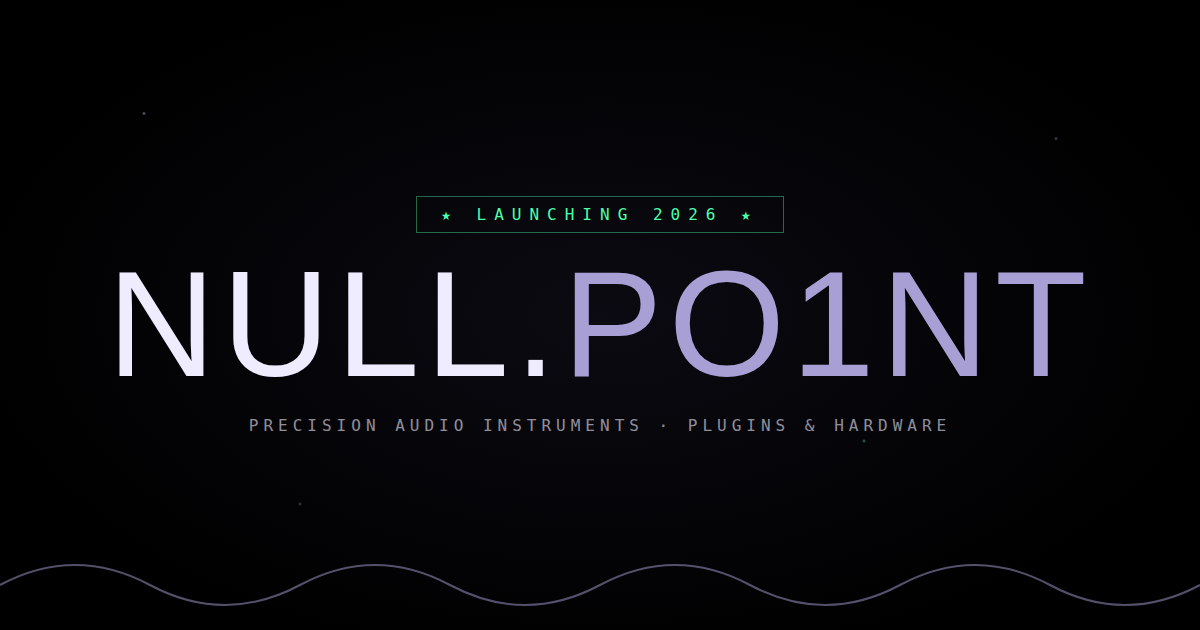
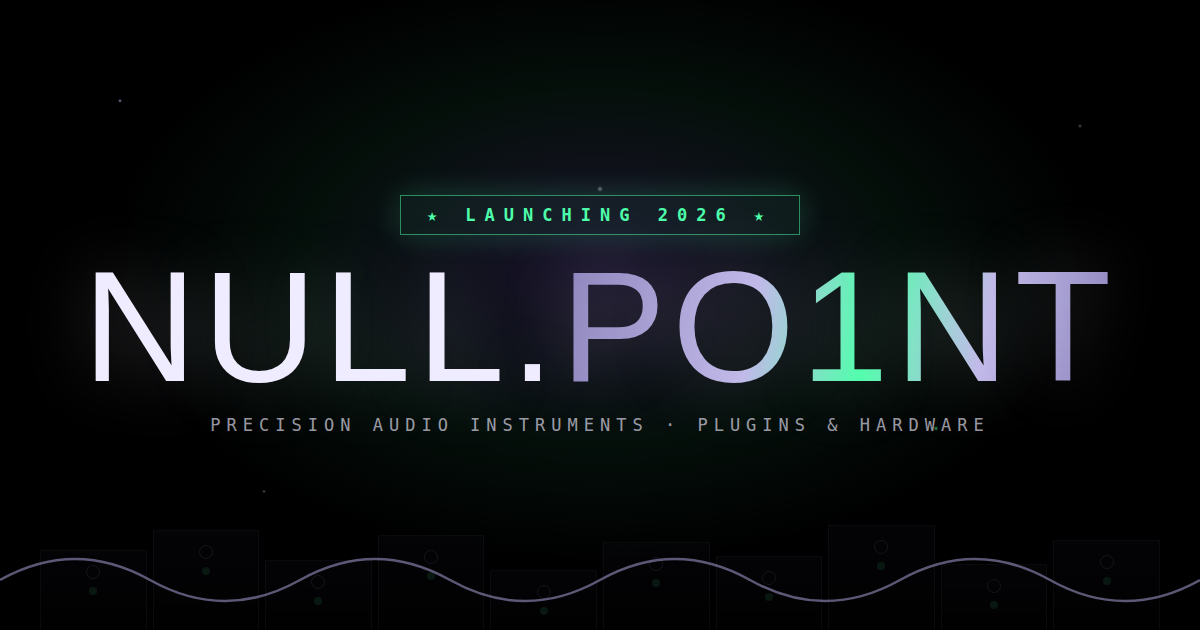
polish: bolder, more eye-catching pass
All 5 optional tweaks + general boldness:

1. Animated drifting starfield — two parallax layers (drift-a/drift-b) moving
   in opposite diagonals, plus a breathing radial glow behind the logo.
2. Brighter AUDIO line — bumped 0.30 -> 0.42 opacity, tighter tracking.
3. Wired all footer social links to real URL patterns (instagram/x/youtube/
   discord), open in new tab w/ rel=noopener. No more href='#'.
4. Added 'what is a null point?' tooltip under the hero form — hover/focus
   reveals an audio-engineering explanation with neon payoff line.
5. Rebuilt og-image.png — bolder gradient wordmark, glowing badge, and a
   faint eurorack module row nodding at the coming hardware.

General boldness:
- PO1NT wordmark now uses an animated purple->neon gradient sweep (hueshift)
- Glowing, heavier badge with twinkling stars
- CTA + nav buttons: lift on hover, colored glow shadows, heavier weight
- Drop cards: lift + shadow + animated gradient top-accent on hover
- Giant band text: thicker stroke + neon glow on accent word
- All respects prefers-reduced-motion

diff --git a/css/pages.css b/css/pages.css
@@ -4,41 +4,76 @@
   display: flex; flex-direction: column; align-items: center; justify-content: center;
   text-align: center; position: relative; overflow: hidden; background: var(--black);
 }
+/* Layer 1: dense, fine stars drifting up-left */
 .cs-hero::before {
-  content: ''; position: absolute; inset: 0; z-index: 0;
+  content: ''; position: absolute; inset: -60px; z-index: 0; pointer-events: none;
   background-image:
-    radial-gradient(1px 1px at 12% 18%, rgba(168,159,212,0.6) 0%, transparent 100%),
-    radial-gradient(1px 1px at 88% 12%, rgba(168,159,212,0.4) 0%, transparent 100%),
-    radial-gradient(1px 1px at 35% 55%, rgba(168,159,212,0.35) 0%, transparent 100%),
-    radial-gradient(1px 1px at 72% 70%, rgba(77,255,170,0.35) 0%, transparent 100%),
-    radial-gradient(1px 1px at 20% 82%, rgba(168,159,212,0.3) 0%, transparent 100%),
-    radial-gradient(1px 1px at 93% 48%, rgba(77,255,170,0.25) 0%, transparent 100%),
-    radial-gradient(1.5px 1.5px at 50% 25%, rgba(228,224,244,0.2) 0%, transparent 100%),
-    radial-gradient(1px 1px at 6% 66%, rgba(77,255,170,0.2) 0%, transparent 100%),
-    radial-gradient(900px 600px at 50% 50%, rgba(78,74,128,0.08) 0%, transparent 70%);
+    radial-gradient(1.5px 1.5px at 12% 18%, rgba(168,159,212,0.8) 0%, transparent 100%),
+    radial-gradient(1px 1px at 88% 12%, rgba(168,159,212,0.5) 0%, transparent 100%),
+    radial-gradient(1px 1px at 35% 55%, rgba(168,159,212,0.45) 0%, transparent 100%),
+    radial-gradient(2px 2px at 72% 70%, rgba(77,255,170,0.55) 0%, transparent 100%),
+    radial-gradient(1px 1px at 20% 82%, rgba(168,159,212,0.4) 0%, transparent 100%),
+    radial-gradient(1.5px 1.5px at 93% 48%, rgba(77,255,170,0.4) 0%, transparent 100%),
+    radial-gradient(2px 2px at 50% 25%, rgba(228,224,244,0.5) 0%, transparent 100%),
+    radial-gradient(1px 1px at 6% 66%, rgba(77,255,170,0.35) 0%, transparent 100%);
+  animation: drift-a 26s ease-in-out infinite alternate;
+}
+/* Layer 2: sparser, larger stars drifting down-right (parallax) + center glow */
+.cs-hero::after {
+  content: ''; position: absolute; inset: -60px; z-index: 0; pointer-events: none;
+  background-image:
+    radial-gradient(2px 2px at 78% 28%, rgba(168,159,212,0.55) 0%, transparent 100%),
+    radial-gradient(2.5px 2.5px at 28% 38%, rgba(77,255,170,0.4) 0%, transparent 100%),
+    radial-gradient(2px 2px at 60% 85%, rgba(168,159,212,0.4) 0%, transparent 100%),
+    radial-gradient(1.5px 1.5px at 15% 30%, rgba(228,224,244,0.4) 0%, transparent 100%),
+    radial-gradient(2px 2px at 90% 78%, rgba(77,255,170,0.3) 0%, transparent 100%);
+  animation: drift-b 34s ease-in-out infinite alternate;
+}
+/* Breathing radial glow behind the logo */
+.cs-glow {
+  position: absolute; top: 46%; left: 50%; z-index: 0; pointer-events: none;
+  width: 900px; height: 620px; max-width: 120vw;
+  background: radial-gradient(ellipse, rgba(120,90,200,0.18) 0%, rgba(77,255,170,0.05) 40%, transparent 70%);
+  animation: glowpulse 7s ease-in-out infinite;
 }
 .cs-badge {
-  font-size: 9px; letter-spacing: 5px; text-transform: uppercase;
-  color: var(--neon); position: relative; z-index: 1; margin-bottom: 28px;
-  border: 1px solid rgba(77,255,170,0.3); padding: 6px 20px;
-  display: inline-flex; align-items: center; gap: 12px;
+  font-size: 10px; letter-spacing: 5px; text-transform: uppercase;
+  color: var(--neon); position: relative; z-index: 1; margin-bottom: 30px;
+  border: 1px solid rgba(77,255,170,0.45); padding: 8px 22px;
+  display: inline-flex; align-items: center; gap: 12px; font-weight: 700;
+  background: rgba(77,255,170,0.05);
+  box-shadow: 0 0 24px rgba(77,255,170,0.18), inset 0 0 16px rgba(77,255,170,0.05);
   animation: fadein .5s ease both;
 }
-.cs-badge::before, .cs-badge::after { content: '★'; font-size: 7px; }
+.cs-badge::before, .cs-badge::after { content: '★'; font-size: 8px; animation: twinkle 2.4s ease-in-out infinite; }
+.cs-badge::after { animation-delay: 1.2s; }
 .cs-logo {
   font-family: 'Bebas Neue', sans-serif;
-  font-size: clamp(80px, 18vw, 200px); line-height: 0.82; letter-spacing: 4px;
+  font-size: clamp(86px, 19vw, 220px); line-height: 0.8; letter-spacing: 4px;
   position: relative; z-index: 1; animation: fadein2 .6s .1s ease both;
 }
-.cs-logo .line1 { color: var(--white); display: block; }
-.cs-logo .line2 { color: var(--purple); display: block; }
-.cs-logo .line3 { color: rgba(240,236,255,0.3); display: block; font-size: 0.5em; letter-spacing: 12px; }
-.cs-tagline {
-  font-size: 11px; letter-spacing: 4px; text-transform: uppercase;
-  color: var(--dim); margin-top: 36px; position: relative; z-index: 1;
-  animation: fadein3 .7s .2s ease both; max-width: 540px; line-height: 1.8;
+.cs-logo .line1 {
+  color: var(--white); display: block;
+  text-shadow: 0 0 60px rgba(240,236,255,0.25);
 }
-.cs-tagline em { color: var(--purple); font-style: normal; }
+/* Animated purple→neon gradient sweep across PO1NT */
+.cs-logo .line2 {
+  display: block;
+  background: linear-gradient(100deg, var(--pu-mid) 0%, var(--pu-hot) 25%, var(--neon) 50%, var(--pu-hot) 75%, var(--pu-mid) 100%);
+  background-size: 200% auto;
+  -webkit-background-clip: text; background-clip: text;
+  -webkit-text-fill-color: transparent; color: transparent;
+  animation: hueshift 6s linear infinite;
+}
+.cs-logo .line3 {
+  color: rgba(240,236,255,0.42); display: block; font-size: 0.5em; letter-spacing: 14px;
+}
+.cs-tagline {
+  font-size: 12px; letter-spacing: 4px; text-transform: uppercase;
+  color: var(--dim); margin-top: 38px; position: relative; z-index: 1;
+  animation: fadein3 .7s .2s ease both; max-width: 560px; line-height: 1.9;
+}
+.cs-tagline em { color: var(--purple); font-style: normal; font-weight: 700; }
 
 /* ── EMAIL CAPTURE FORM ─────────────────────────────────────────────── */
 .cs-form {
@@ -78,12 +113,18 @@
   background: var(--coal); padding: 40px 36px;
   display: flex; flex-direction: column; gap: 12px;
   position: relative; overflow: hidden;
-  transition: background .2s;
+  transition: background .22s, transform .22s, box-shadow .22s;
 }
-.drop-card:hover { background: var(--surface); }
+.drop-card:hover {
+  background: var(--surface);
+  transform: translateY(-4px);
+  box-shadow: 0 18px 50px rgba(0,0,0,0.5), 0 0 30px rgba(120,90,200,0.12);
+}
 .drop-card::before {
-  content: ''; position: absolute; top: 0; left: 0; right: 0; height: 2px;
-  background: linear-gradient(90deg, var(--pu-low), var(--purple), var(--neon));
+  content: ''; position: absolute; top: 0; left: 0; right: 0; height: 3px;
+  background: linear-gradient(90deg, var(--pu-low), var(--purple), var(--neon), var(--purple), var(--pu-low));
+  background-size: 200% auto;
+  animation: hueshift 5s linear infinite;
 }
 .drop-status {
   font-size: 8px; letter-spacing: 3px; text-transform: uppercase;
@@ -253,3 +294,37 @@ footer { background: var(--black); border-top: 1px solid rgba(168,159,212,0.28);
 }
 .toast.show { transform: translateY(0); }
 .toast strong { color: var(--neon); display: block; font-family: 'Bebas Neue', sans-serif; font-size: 18px; letter-spacing: 2px; margin-bottom: 6px; }
+
+/* ── "WHAT IS NULL POINT?" TOOLTIP ──────────────────────────────────── */
+.np-explain {
+  font-size: 8px; letter-spacing: 2px; text-transform: uppercase;
+  color: var(--faint); margin-top: 20px; position: relative; z-index: 2;
+  animation: fadein3 1.1s .6s ease both;
+  display: inline-flex; align-items: center; gap: 6px;
+}
+.np-term {
+  color: var(--purple); border-bottom: 1px dotted rgba(168,159,212,0.5);
+  cursor: help; position: relative; font-weight: 700;
+}
+.np-term .np-tip {
+  position: absolute; bottom: calc(100% + 12px); left: 50%; transform: translateX(-50%) translateY(6px);
+  width: 280px; max-width: 80vw;
+  background: var(--coal); border: 1px solid rgba(168,159,212,0.4);
+  padding: 14px 16px; text-align: left;
+  font-size: 10px; letter-spacing: 0.5px; line-height: 1.7; text-transform: none;
+  color: var(--dim); font-weight: 300;
+  opacity: 0; visibility: hidden; transition: opacity .2s, transform .2s;
+  box-shadow: 0 16px 40px rgba(0,0,0,0.6); z-index: 50;
+}
+.np-term .np-tip::after {
+  content: ''; position: absolute; top: 100%; left: 50%; transform: translateX(-50%);
+  border: 6px solid transparent; border-top-color: rgba(168,159,212,0.4);
+}
+.np-term .np-tip strong { color: var(--neon); font-weight: 700; }
+.np-term:hover .np-tip, .np-term:focus .np-tip {
+  opacity: 1; visibility: visible; transform: translateX(-50%) translateY(0);
+}
+
+/* ── BOLDER GIANT BAND ──────────────────────────────────────────────── */
+.giant-text { -webkit-text-stroke: 2.5px var(--purple); }
+.giant-text em { text-shadow: 0 0 40px rgba(77,255,170,0.4); }

diff --git a/css/components.css b/css/components.css
@@ -26,10 +26,10 @@ nav {
 .nav-buy {
   font-size: 10px; letter-spacing: 2px; text-transform: uppercase;
   border: 1px solid var(--purple); color: var(--purple);
-  padding: 6px 16px; background: none;
-  font-family: 'IBM Plex Mono', monospace; transition: all .15s;
+  padding: 7px 18px; background: rgba(168,159,212,0.04);
+  font-family: 'IBM Plex Mono', monospace; font-weight: 700; transition: all .18s;
 }
-.nav-buy:hover { background: var(--purple); color: var(--black); }
+.nav-buy:hover { background: var(--purple); color: var(--black); box-shadow: 0 0 18px rgba(168,159,212,0.45); }
 
 /* ── TICKERS ────────────────────────────────────────────────────────── */
 .top-ticker {
@@ -66,17 +66,30 @@ nav {
   font-family: 'IBM Plex Mono', monospace;
   font-size: 11px; letter-spacing: 2px; text-transform: uppercase;
   background: var(--purple); color: var(--black);
-  border: none; padding: 14px 38px; font-weight: 700; transition: background .15s;
+  border: none; padding: 15px 40px; font-weight: 700;
+  transition: background .18s, box-shadow .18s, transform .18s;
+  box-shadow: 0 0 0 rgba(168,159,212,0);
 }
-.cta-primary:hover { background: var(--pu-hot); }
+.cta-primary:hover {
+  background: var(--pu-hot);
+  box-shadow: 0 8px 30px rgba(168,159,212,0.4);
+  transform: translateY(-2px);
+}
+.cta-primary:active { transform: translateY(0); }
 .cta-outline {
   font-family: 'IBM Plex Mono', monospace;
   font-size: 11px; letter-spacing: 2px; text-transform: uppercase;
-  background: none; color: var(--neon);
-  border: 1px solid rgba(77,255,170,0.3);
-  padding: 14px 38px; transition: all .15s;
+  background: rgba(77,255,170,0.03); color: var(--neon);
+  border: 1px solid rgba(77,255,170,0.4);
+  padding: 15px 40px; font-weight: 700;
+  transition: all .18s;
 }
-.cta-outline:hover { background: rgba(77,255,170,0.07); border-color: var(--neon); }
+.cta-outline:hover {
+  background: rgba(77,255,170,0.1); border-color: var(--neon);
+  box-shadow: 0 8px 30px rgba(77,255,170,0.22);
+  transform: translateY(-2px);
+}
+.cta-outline:active { transform: translateY(0); }
 
 /* ── PLUGIN MOCKUP ──────────────────────────────────────────────────── */
 .hero-plugin {

diff --git a/css/base.css b/css/base.css
@@ -19,3 +19,17 @@ body {
 @keyframes fadein3 { from { opacity:0; transform:translateY(24px); } to { opacity:1; transform:none; } }
 @keyframes tickerscroll { from { transform: translateX(0); } to { transform: translateX(-50%); } }
 @keyframes linepulse { 0%,100%{ opacity:.3; } 50%{ opacity:1; } }
+
+/* Slow drifting starfield — two layers move in opposite diagonals for parallax */
+@keyframes drift-a { from { transform: translate3d(0,0,0); } to { transform: translate3d(-40px,-30px,0); } }
+@keyframes drift-b { from { transform: translate3d(0,0,0); } to { transform: translate3d(35px,25px,0); } }
+/* Soft breathing glow behind the logo */
+@keyframes glowpulse { 0%,100%{ opacity:.5; transform:translate(-50%,-50%) scale(1); } 50%{ opacity:.9; transform:translate(-50%,-50%) scale(1.12); } }
+/* Animated gradient sweep for the accent on the wordmark + badge */
+@keyframes hueshift { 0%{ background-position:0% 50%; } 100%{ background-position:200% 50%; } }
+/* Twinkle for accent stars */
+@keyframes twinkle { 0%,100%{ opacity:.25; transform:scale(.85); } 50%{ opacity:1; transform:scale(1.15); } }
+
+@media (prefers-reduced-motion: reduce) {
+  *, *::before, *::after { animation-duration: .001ms !important; animation-iteration-count: 1 !important; }
+}

diff --git a/index.html b/index.html
@@ -71,6 +71,7 @@
 
 <!-- ── HERO ──────────────────────────────────────────────────────────── -->
 <section class="cs-hero">
+  <div class="cs-glow"></div>
   <div class="cs-badge">Launching 2026</div>
   <div class="cs-logo">
     <span class="line1">NULL.</span>
@@ -84,6 +85,11 @@
     <button type="submit" class="cta-primary">Notify Me ★</button>
   </form>
   <p class="cs-form-note">★ One email at launch. No spam, no newsletters. <em>Promise.</em></p>
+  <p class="np-explain">
+    <span class="np-term" tabindex="0">what is a null point?
+      <span class="np-tip">In audio, the <strong>null point</strong> is where two signals cancel perfectly to silence — zero. It's the precise, deliberate center we build everything around. <strong>Nothing wasted, nothing colored.</strong></span>
+    </span>
+  </p>
 </section>
 
 <!-- ── GIANT BAND ────────────────────────────────────────────────────── -->
@@ -154,7 +160,7 @@
       <div class="footer-tagline">Handbuilt in Sofia · Launching 2026</div>
     </div>
     <div class="footer-socials">
-      <a href="#">Instagram</a><a href="#">X / Twitter</a><a href="#">YouTube</a><a href="#">Discord</a>
+      <a href="https://instagram.com/nullpoint.audio" target="_blank" rel="noopener">Instagram</a><a href="https://x.com/nullpointaudio" target="_blank" rel="noopener">X / Twitter</a><a href="https://youtube.com/@nullpointaudio" target="_blank" rel="noopener">YouTube</a><a href="https://discord.gg/nullpoint" target="_blank" rel="noopener">Discord</a>
     </div>
   </div>
   <div class="footer-bottom">

diff --git a/about.html b/about.html
@@ -168,7 +168,7 @@
       <div class="footer-tagline">Handbuilt in Sofia · Launching 2026</div>
     </div>
     <div class="footer-socials">
-      <a href="#">Instagram</a><a href="#">X / Twitter</a><a href="#">YouTube</a><a href="#">Discord</a>
+      <a href="https://instagram.com/nullpoint.audio" target="_blank" rel="noopener">Instagram</a><a href="https://x.com/nullpointaudio" target="_blank" rel="noopener">X / Twitter</a><a href="https://youtube.com/@nullpointaudio" target="_blank" rel="noopener">YouTube</a><a href="https://discord.gg/nullpoint" target="_blank" rel="noopener">Discord</a>
     </div>
   </div>
   <div class="footer-bottom">

diff --git a/beta.html b/beta.html
@@ -256,7 +256,7 @@
       <div class="footer-tagline">Handbuilt in Sofia · Launching 2026</div>
     </div>
     <div class="footer-socials">
-      <a href="#">Instagram</a><a href="#">X / Twitter</a><a href="#">YouTube</a><a href="#">Discord</a>
+      <a href="https://instagram.com/nullpoint.audio" target="_blank" rel="noopener">Instagram</a><a href="https://x.com/nullpointaudio" target="_blank" rel="noopener">X / Twitter</a><a href="https://youtube.com/@nullpointaudio" target="_blank" rel="noopener">YouTube</a><a href="https://discord.gg/nullpoint" target="_blank" rel="noopener">Discord</a>
     </div>
   </div>
   <div class="footer-bottom">